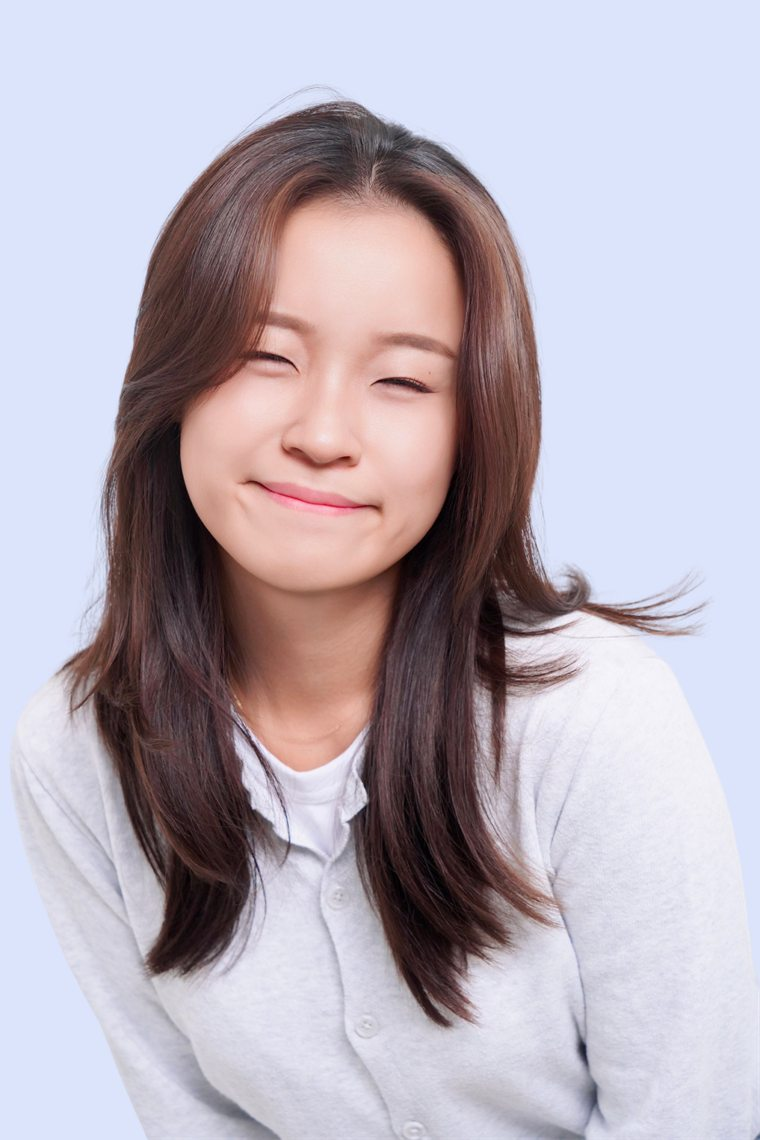
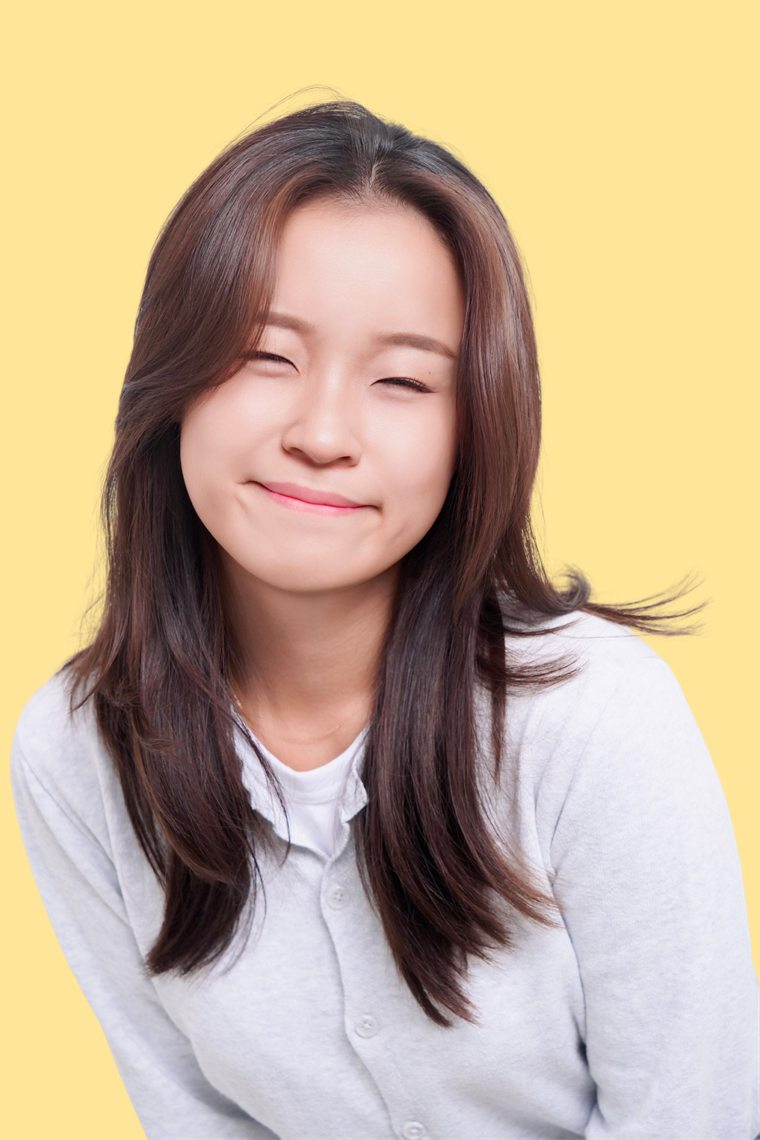
노랑·갈색 땡땡이 테마 적용, 그로스쿨 사진 추가
- 색상 토큰을 크림/버터 옐로/브라운으로 교체, 배경·인용 박스·푸터에 땡땡이 패턴
- 프로필 사진 배경을 버터 옐로로 다시 굽고 땡땡이 스티커 프레임 추가 (사진 자체는 고정)
- 그로스쿨 작업물 8장 추가 (프로젝트 목록 + 상세 페이지)

diff --git a/assets/css/main.css b/assets/css/main.css
@@ -6,17 +6,19 @@
 
 /* ---------- 1. Tokens ---------- */
 :root {
-    --bg: #FAFAF7;
-    --surface: #FFFFFF;
-    --surface-2: #F2F1EC;
-    --ink: #14161B;
-    --ink-2: #4A4F5C;
-    --ink-3: #8A8F9C;
-    --line: #E6E4DE;
-    --accent: #2B50E6;
-    --accent-ink: #1B37B0;
-    --accent-tint: #DCE4FB;
+    --bg: #FFF8EB;
+    --surface: #FFFDF8;
+    --surface-2: #F9EDD5;
+    --ink: #3A2A1F;
+    --ink-2: #6B5545;
+    --ink-3: #A08A76;
+    --line: #EEDFC5;
+    --accent: #96602F;
+    --accent-ink: #6B4222;
+    --accent-tint: #FFEBB0;
     --highlight: #FFC93C;
+    --yellow-soft: #FFE59A;
+    --dot: rgba(150, 96, 47, .09);
 
     --font-sans: "Pretendard Variable", Pretendard, -apple-system, BlinkMacSystemFont, "Apple SD Gothic Neo", "Malgun Gothic", sans-serif;
     --font-serif: "Instrument Serif", Georgia, serif;
@@ -24,9 +26,9 @@
     --container: 1160px;
     --gutter: clamp(20px, 5vw, 40px);
     --header-h: 72px;
-    --radius: 20px;
-    --radius-sm: 12px;
-    --shadow: 0 1px 2px rgba(20, 22, 27, .04), 0 8px 24px rgba(20, 22, 27, .06);
+    --radius: 24px;
+    --radius-sm: 14px;
+    --shadow: 0 1px 2px rgba(58, 42, 31, .05), 0 10px 28px rgba(150, 96, 47, .12);
     --ease: cubic-bezier(.2, .7, .2, 1);
 }
 
@@ -126,7 +128,7 @@ html[data-lang="en"] body [lang="ko"] { display: none !important; }
 .site-header {
     position: fixed; inset: 0 0 auto; z-index: 50;
     height: var(--header-h);
-    background: rgba(250, 250, 247, .82);
+    background: rgba(255, 248, 235, .88);
     backdrop-filter: saturate(160%) blur(14px);
     -webkit-backdrop-filter: saturate(160%) blur(14px);
     border-bottom: 1px solid transparent;
@@ -288,9 +290,6 @@ html[data-lang="en"] body [lang="ko"] { display: none !important; }
 .metric { padding: 36px 28px 32px; }
 .metric + .metric { border-left: 1px solid var(--line); }
 .metrics--3 { grid-template-columns: repeat(3, 1fr); }
-.metrics--compact { align-self: start; }
-.metrics--compact .metric { padding: 28px 20px 24px; }
-.metrics--compact .metric-value { font-size: clamp(32px, 3.4vw, 44px); }
 .metric-value { font-size: clamp(40px, 4.6vw, 56px); font-weight: 700; letter-spacing: -0.04em; line-height: 1; }
 .metric-value small { font-size: .5em; margin-left: 2px; color: var(--accent); }
 .metric-label { margin-top: 14px; font-size: 15px; color: var(--ink-2); line-height: 1.5; }
@@ -570,7 +569,7 @@ html[data-lang="en"] body [lang="ko"] { display: none !important; }
 
 .lightbox {
     width: 100vw; height: 100vh; max-width: none; max-height: none; margin: 0; padding: 0; border: 0;
-    background: rgba(12, 13, 16, .92); color: #fff;
+    background: rgba(38, 27, 19, .94); color: #fff;
 }
 .lightbox[open] { display: grid; grid-template-rows: auto minmax(0, 1fr); }
 .lightbox::backdrop { background: transparent; }
@@ -663,6 +662,90 @@ html[data-lang="en"] body [lang="ko"] { display: none !important; }
 
 @media (max-width: 420px) {
     .video-grid, .insta-grid, .facts { grid-template-columns: 1fr; }
+}
+
+/* ---------- Theme — cozy polka dots (yellow × brown) ---------- */
+body {
+    background-color: var(--bg);
+    background-image: radial-gradient(var(--dot) 1.8px, transparent 2.2px);
+    background-size: 28px 28px;
+}
+
+.site-header { background: rgba(255, 248, 235, .88); }
+
+.brand span {
+    display: inline-block; width: 7px; height: 7px; margin-left: 3px; vertical-align: baseline;
+    border-radius: 50%; background: var(--highlight); box-shadow: 0 0 0 1.5px var(--ink);
+    font-size: 0;
+}
+
+.eyebrow::before {
+    width: 9px; height: 9px; border-radius: 50%;
+    background: var(--highlight); box-shadow: 0 0 0 2px var(--accent);
+}
+
+.nav a:hover { background: var(--accent-tint); }
+
+.btn--primary { background: var(--ink); border-color: var(--ink); color: var(--bg); }
+.btn--primary:hover { background: var(--highlight); border-color: var(--highlight); color: var(--ink); }
+.btn:hover { border-color: var(--accent); }
+
+.card { box-shadow: 0 1px 0 rgba(150, 96, 47, .06); }
+
+.mark { background: linear-gradient(transparent 58%, var(--highlight) 58%); border-radius: 2px; }
+
+/* Portrait — butter background baked into the photo + a dotted "sticker" frame behind it */
+.hero-visual { position: relative; isolation: isolate; }
+.hero-visual::before {
+    content: ""; position: absolute; z-index: -1;
+    inset: 22px -22px -22px 22px;
+    border-radius: 200px 200px var(--radius) var(--radius);
+    background-color: var(--accent);
+    background-image: radial-gradient(var(--highlight) 3.2px, transparent 3.7px);
+    background-size: 18px 18px;
+}
+.portrait { background: var(--yellow-soft); box-shadow: 0 0 0 4px var(--ink); }
+.page-hero--split .hero-visual { justify-self: end; width: 100%; max-width: 360px; }
+.page-hero--split .portrait { max-width: none; }
+
+/* Quote — yellow with white polka dots */
+.quote {
+    background-color: var(--highlight); color: var(--ink);
+    background-image: radial-gradient(rgba(255, 255, 255, .38) 2.6px, transparent 3.1px);
+    background-size: 26px 26px;
+}
+.quote p { color: var(--ink-2); }
+
+/* Dark brown blocks get faint yellow dots */
+.note-card, .site-footer {
+    background-color: var(--ink);
+    background-image: radial-gradient(rgba(255, 201, 60, .13) 2.4px, transparent 2.9px);
+    background-size: 24px 24px;
+}
+.site-footer { color: var(--bg); }
+.footer-cta .btn { background: var(--bg); color: var(--ink); border-color: var(--bg); }
+
+/* Round yellow buttons */
+.work-card:hover .go, .next-case .go { background: var(--highlight); color: var(--ink); }
+.next-case:hover { border-color: var(--highlight); }
+
+.level i::before, .level i::after, .level b { box-shadow: inset 0 0 0 1.5px var(--line); }
+.level[data-level="1"] i::before,
+.level[data-level="2"] i::before, .level[data-level="2"] b,
+.level[data-level="3"] i::before, .level[data-level="3"] b, .level[data-level="3"] i::after {
+    background: var(--highlight); box-shadow: inset 0 0 0 1.5px var(--accent);
+}
+
+.metric-value small { color: var(--accent); }
+.step h3::before { background: var(--highlight); color: var(--ink); }
+.jump-nav a:hover { border-color: var(--accent); background: var(--accent-tint); color: var(--ink); }
+.link-card:hover { border-color: var(--highlight); color: var(--ink); background: var(--accent-tint); }
+
+::selection { background: var(--highlight); color: var(--ink); }
+
+@media (max-width: 760px) {
+    .page-hero--split .hero-visual { order: -1; justify-self: start; max-width: 220px; }
+    .hero-visual::before { inset: 14px -14px -14px 14px; }
 }
 
 /* ---------- Motion ---------- */

diff --git a/archiving.html b/archiving.html
@@ -64,20 +64,7 @@
                         </p>
                         <a href="projects/growschool.html" class="text-link"><span lang="ko">프로젝트 자세히 보기</span><span lang="en">View case study</span> →</a>
                     </div>
-                    <div class="metrics metrics--3 metrics--compact">
-                        <div class="metric">
-                            <p class="metric-value">5<small lang="ko">분</small><small lang="en">min</small></p>
-                            <p class="metric-label"><span lang="ko">카드뉴스 1편 제작</span><span lang="en">Per card-news set</span></p>
-                        </div>
-                        <div class="metric">
-                            <p class="metric-value">3</p>
-                            <p class="metric-label"><span lang="ko">연동한 툴</span><span lang="en">Tools connected</span></p>
-                        </div>
-                        <div class="metric">
-                            <p class="metric-value">CTR</p>
-                            <p class="metric-label"><span lang="ko">소재별 반응 분석</span><span lang="en">Per-creative analysis</span></p>
-                        </div>
-                    </div>
+                    <div class="gallery" data-path="assets/img/archive/growschool" data-count="8" data-alt="그로스쿨 인턴십 작업물"></div>
                 </article>
             </div>
         </div>

diff --git a/about.html b/about.html
@@ -40,8 +40,10 @@
                     <span lang="en">I studied tourism management and spent two years planning and selling travel packages as a product MD. That taught me that even a great product lives or dies by <strong>who hears about it and how</strong> — so now I’m growing as a marketer who finds that answer with content and data.</span>
                 </p>
             </div>
-            <div class="portrait reveal" data-delay="2">
-                <img src="assets/img/profile-smile.jpg" width="760" height="1140" alt="김소연 프로필 사진">
+            <div class="hero-visual reveal" data-delay="2">
+                <div class="portrait">
+                    <img src="assets/img/profile-smile.jpg" width="760" height="1140" alt="김소연 프로필 사진">
+                </div>
             </div>
         </div>
     </section>

diff --git a/projects/growschool.html b/projects/growschool.html
@@ -103,6 +103,11 @@
             </div>
 
             <div class="case-block reveal">
+                <h2><small>Work</small><span lang="ko">작업물</span><span lang="en">The work</span></h2>
+                <div class="gallery gallery--lg" data-path="../assets/img/archive/growschool" data-count="8" data-alt="그로스쿨 인턴십 작업물"></div>
+            </div>
+
+            <div class="case-block reveal">
                 <h2><small>Takeaway</small><span lang="ko">배운 점</span><span lang="en">Takeaway</span></h2>
                 <p class="lead">
                     <span lang="ko">자동화의 목적은 ‘빨리 만드는 것’이 아니라 ‘생각할 시간을 버는 것’이라는 걸 배웠어요. 제작 시간을 줄인 만큼 타깃과 데이터를 더 깊게 볼 수 있었어요.</span>
